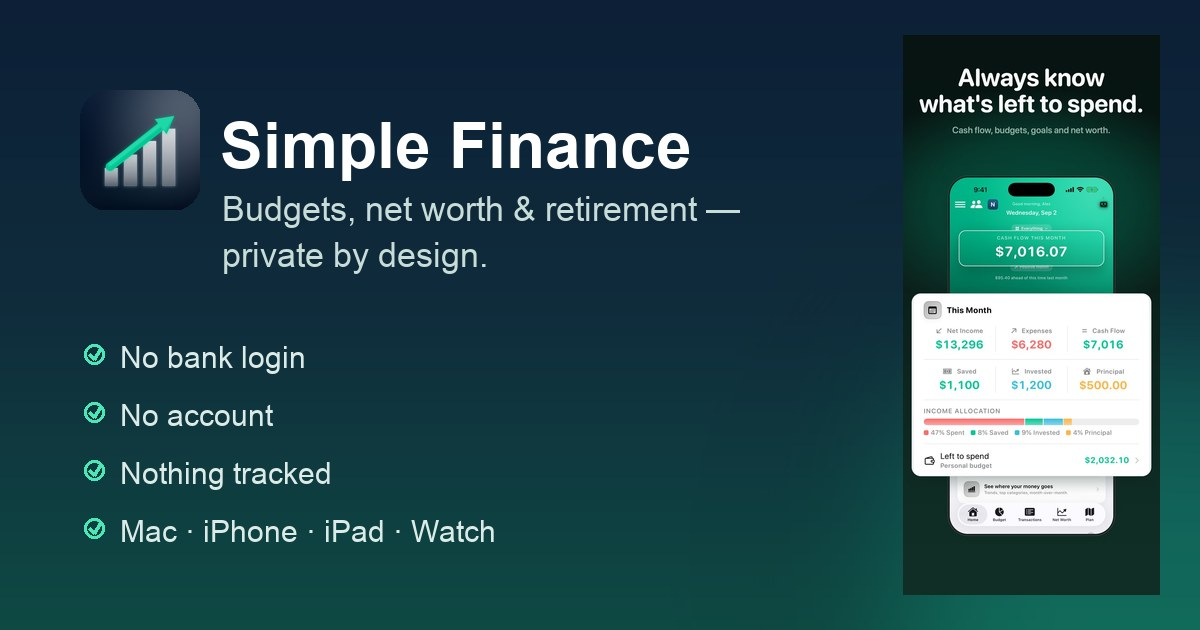
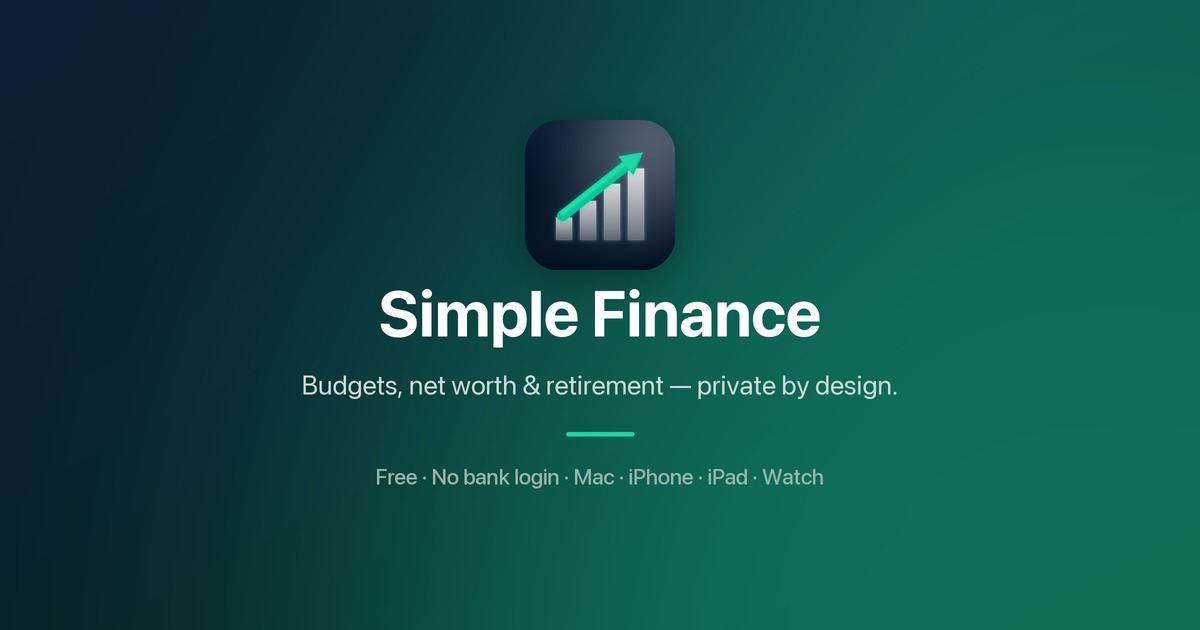
New professional share card (no screenshot) + wider compare columns
- Rebuilt the OG/social card: centered app icon, SF Pro wordmark, tagline,
  accent rule and a feature line on the brand gradient — no phone screenshot.
- Comparison rival columns get a min-width so the 8-column table scrolls on
  non-maximized Mac windows, where the pinned feature + Simple Finance columns
  keep our column on screen (verified it locks on scroll).

diff --git a/404.html b/404.html
@@ -332,7 +332,7 @@ footer img{width:26px;height:26px;border-radius:7px;opacity:.75;margin-bottom:10
 .cmp th:first-child{color:var(--muted);font-weight:650}
 /* hairline between the rival columns */
 .cmp td:not(:first-child):not(.us),.cmp th:not(:first-child):not(.us){
-  border-left:1px solid var(--line);text-align:center}
+  border-left:1px solid var(--line);text-align:center;min-width:132px}
 .cmp td:not(:first-child),.cmp th:not(:first-child){text-align:center}
 /* our column: one continuous band */
 .cmp .us{background:color-mix(in srgb,var(--accent) 9%,var(--bg));

diff --git a/compare.html b/compare.html
@@ -332,7 +332,7 @@ footer img{width:26px;height:26px;border-radius:7px;opacity:.75;margin-bottom:10
 .cmp th:first-child{color:var(--muted);font-weight:650}
 /* hairline between the rival columns */
 .cmp td:not(:first-child):not(.us),.cmp th:not(:first-child):not(.us){
-  border-left:1px solid var(--line);text-align:center}
+  border-left:1px solid var(--line);text-align:center;min-width:132px}
 .cmp td:not(:first-child),.cmp th:not(:first-child){text-align:center}
 /* our column: one continuous band */
 .cmp .us{background:color-mix(in srgb,var(--accent) 9%,var(--bg));

diff --git a/gallery.html b/gallery.html
@@ -332,7 +332,7 @@ footer img{width:26px;height:26px;border-radius:7px;opacity:.75;margin-bottom:10
 .cmp th:first-child{color:var(--muted);font-weight:650}
 /* hairline between the rival columns */
 .cmp td:not(:first-child):not(.us),.cmp th:not(:first-child):not(.us){
-  border-left:1px solid var(--line);text-align:center}
+  border-left:1px solid var(--line);text-align:center;min-width:132px}
 .cmp td:not(:first-child),.cmp th:not(:first-child){text-align:center}
 /* our column: one continuous band */
 .cmp .us{background:color-mix(in srgb,var(--accent) 9%,var(--bg));

diff --git a/help/bills-recurring.html b/help/bills-recurring.html
@@ -332,7 +332,7 @@ footer img{width:26px;height:26px;border-radius:7px;opacity:.75;margin-bottom:10
 .cmp th:first-child{color:var(--muted);font-weight:650}
 /* hairline between the rival columns */
 .cmp td:not(:first-child):not(.us),.cmp th:not(:first-child):not(.us){
-  border-left:1px solid var(--line);text-align:center}
+  border-left:1px solid var(--line);text-align:center;min-width:132px}
 .cmp td:not(:first-child),.cmp th:not(:first-child){text-align:center}
 /* our column: one continuous band */
 .cmp .us{background:color-mix(in srgb,var(--accent) 9%,var(--bg));

diff --git a/help/budgets.html b/help/budgets.html
@@ -332,7 +332,7 @@ footer img{width:26px;height:26px;border-radius:7px;opacity:.75;margin-bottom:10
 .cmp th:first-child{color:var(--muted);font-weight:650}
 /* hairline between the rival columns */
 .cmp td:not(:first-child):not(.us),.cmp th:not(:first-child):not(.us){
-  border-left:1px solid var(--line);text-align:center}
+  border-left:1px solid var(--line);text-align:center;min-width:132px}
 .cmp td:not(:first-child),.cmp th:not(:first-child){text-align:center}
 /* our column: one continuous band */
 .cmp .us{background:color-mix(in srgb,var(--accent) 9%,var(--bg));

diff --git a/help/business.html b/help/business.html
@@ -332,7 +332,7 @@ footer img{width:26px;height:26px;border-radius:7px;opacity:.75;margin-bottom:10
 .cmp th:first-child{color:var(--muted);font-weight:650}
 /* hairline between the rival columns */
 .cmp td:not(:first-child):not(.us),.cmp th:not(:first-child):not(.us){
-  border-left:1px solid var(--line);text-align:center}
+  border-left:1px solid var(--line);text-align:center;min-width:132px}
 .cmp td:not(:first-child),.cmp th:not(:first-child){text-align:center}
 /* our column: one continuous band */
 .cmp .us{background:color-mix(in srgb,var(--accent) 9%,var(--bg));

diff --git a/help/categories.html b/help/categories.html
@@ -332,7 +332,7 @@ footer img{width:26px;height:26px;border-radius:7px;opacity:.75;margin-bottom:10
 .cmp th:first-child{color:var(--muted);font-weight:650}
 /* hairline between the rival columns */
 .cmp td:not(:first-child):not(.us),.cmp th:not(:first-child):not(.us){
-  border-left:1px solid var(--line);text-align:center}
+  border-left:1px solid var(--line);text-align:center;min-width:132px}
 .cmp td:not(:first-child),.cmp th:not(:first-child){text-align:center}
 /* our column: one continuous band */
 .cmp .us{background:color-mix(in srgb,var(--accent) 9%,var(--bg));

diff --git a/help/contact.html b/help/contact.html
@@ -332,7 +332,7 @@ footer img{width:26px;height:26px;border-radius:7px;opacity:.75;margin-bottom:10
 .cmp th:first-child{color:var(--muted);font-weight:650}
 /* hairline between the rival columns */
 .cmp td:not(:first-child):not(.us),.cmp th:not(:first-child):not(.us){
-  border-left:1px solid var(--line);text-align:center}
+  border-left:1px solid var(--line);text-align:center;min-width:132px}
 .cmp td:not(:first-child),.cmp th:not(:first-child){text-align:center}
 /* our column: one continuous band */
 .cmp .us{background:color-mix(in srgb,var(--accent) 9%,var(--bg));

diff --git a/help/devices-widgets.html b/help/devices-widgets.html
@@ -332,7 +332,7 @@ footer img{width:26px;height:26px;border-radius:7px;opacity:.75;margin-bottom:10
 .cmp th:first-child{color:var(--muted);font-weight:650}
 /* hairline between the rival columns */
 .cmp td:not(:first-child):not(.us),.cmp th:not(:first-child):not(.us){
-  border-left:1px solid var(--line);text-align:center}
+  border-left:1px solid var(--line);text-align:center;min-width:132px}
 .cmp td:not(:first-child),.cmp th:not(:first-child){text-align:center}
 /* our column: one continuous band */
 .cmp .us{background:color-mix(in srgb,var(--accent) 9%,var(--bg));

diff --git a/help/fin.html b/help/fin.html
@@ -332,7 +332,7 @@ footer img{width:26px;height:26px;border-radius:7px;opacity:.75;margin-bottom:10
 .cmp th:first-child{color:var(--muted);font-weight:650}
 /* hairline between the rival columns */
 .cmp td:not(:first-child):not(.us),.cmp th:not(:first-child):not(.us){
-  border-left:1px solid var(--line);text-align:center}
+  border-left:1px solid var(--line);text-align:center;min-width:132px}
 .cmp td:not(:first-child),.cmp th:not(:first-child){text-align:center}
 /* our column: one continuous band */
 .cmp .us{background:color-mix(in srgb,var(--accent) 9%,var(--bg));

diff --git a/help/getting-started.html b/help/getting-started.html
@@ -332,7 +332,7 @@ footer img{width:26px;height:26px;border-radius:7px;opacity:.75;margin-bottom:10
 .cmp th:first-child{color:var(--muted);font-weight:650}
 /* hairline between the rival columns */
 .cmp td:not(:first-child):not(.us),.cmp th:not(:first-child):not(.us){
-  border-left:1px solid var(--line);text-align:center}
+  border-left:1px solid var(--line);text-align:center;min-width:132px}
 .cmp td:not(:first-child),.cmp th:not(:first-child){text-align:center}
 /* our column: one continuous band */
 .cmp .us{background:color-mix(in srgb,var(--accent) 9%,var(--bg));

diff --git a/help/goals.html b/help/goals.html
@@ -332,7 +332,7 @@ footer img{width:26px;height:26px;border-radius:7px;opacity:.75;margin-bottom:10
 .cmp th:first-child{color:var(--muted);font-weight:650}
 /* hairline between the rival columns */
 .cmp td:not(:first-child):not(.us),.cmp th:not(:first-child):not(.us){
-  border-left:1px solid var(--line);text-align:center}
+  border-left:1px solid var(--line);text-align:center;min-width:132px}
 .cmp td:not(:first-child),.cmp th:not(:first-child){text-align:center}
 /* our column: one continuous band */
 .cmp .us{background:color-mix(in srgb,var(--accent) 9%,var(--bg));
